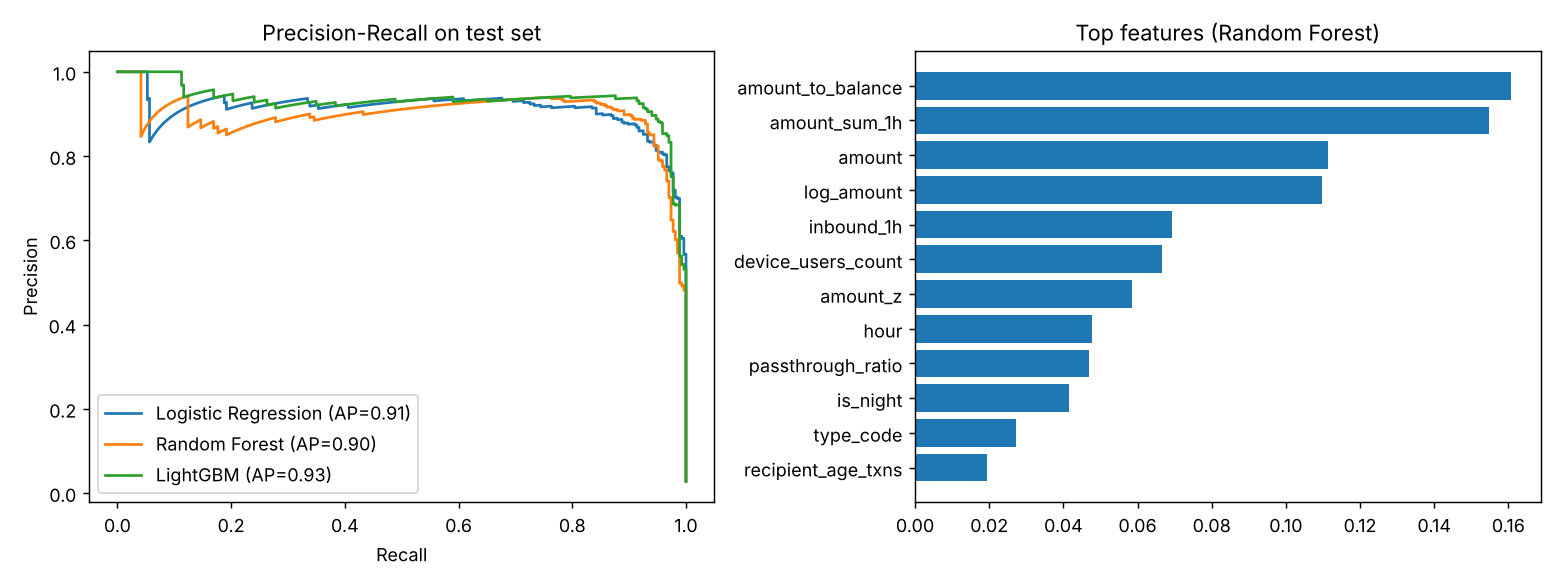
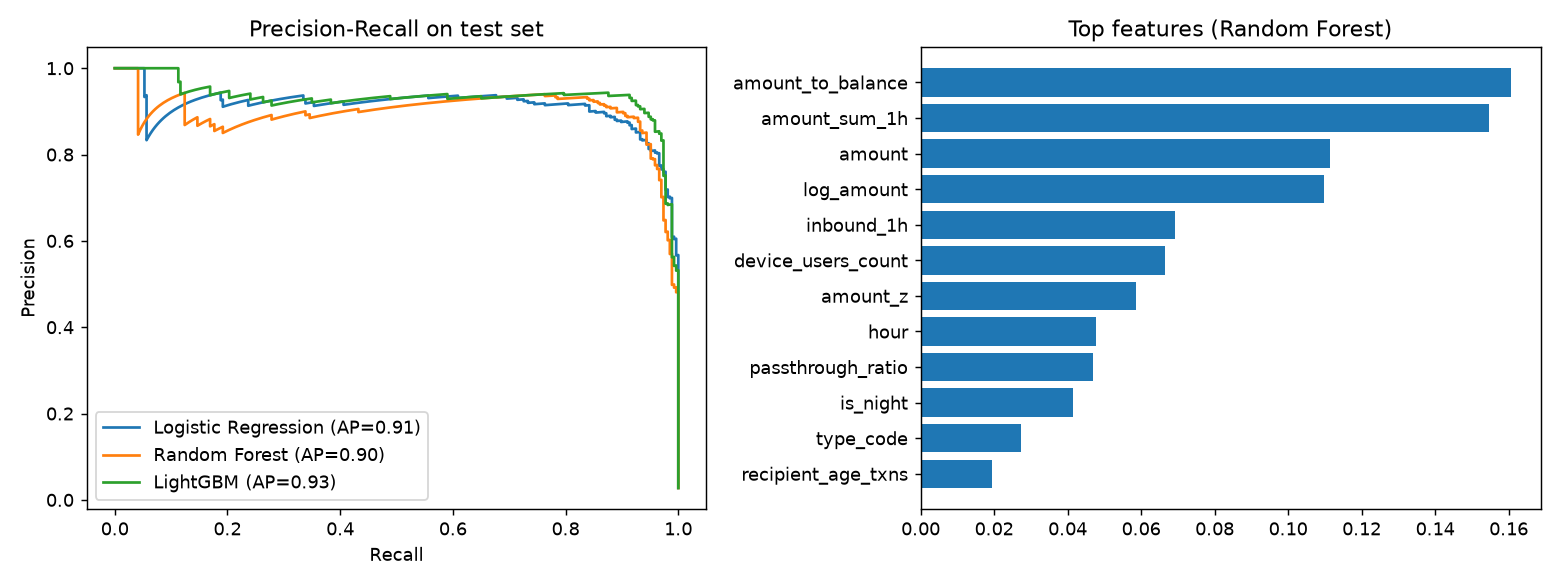
feat: analyst feedback loop for thresholds and labels; docs and reports

diff --git a/ml/feedback.py b/ml/feedback.py
@@ -1,0 +1,154 @@
+"""Analyst feedback loop: confirmed / dismissed cases -> new thresholds and/or new training labels.
+
+The backend exports a CSV (one row per analyst decision):
+
+    txn_id,decision[,analyst,decided_at]
+    TXN-0027580,confirmed
+    TXN-0024183,dismissed
+
+    confirmed = analyst says it IS fraud  (label 1)      dismissed = false alarm  (label 0)
+
+Two ways the feedback is used:
+  1. THRESHOLDS (instant, no retraining): re-tune the otp / hold / block cut-offs with the same cost
+     model as ml/decision.py, but analyst-reviewed cases count `--weight` times more than the
+     historical validation rows. Safety rails: needs >= --min-cases decisions, and each threshold may
+     move at most --max-shift away from its current value per update.
+  2. LABELS (slower, better model): write data/feedback_labels.csv; the next `python -m ml.train`
+     overrides the TRAINING labels of those transactions (test labels are never touched). This is
+     also how unreported fraud, which the historical labels missed, gets corrected.
+
+Usage:
+    python -m ml.feedback feedback.csv                 # dry run: show suggested thresholds
+    python -m ml.feedback feedback.csv --apply         # save thresholds into models/risk_engine.joblib + rebuild cache
+    python -m ml.feedback feedback.csv --labels        # also write data/feedback_labels.csv for retraining
+    python -m ml.feedback --simulate 300               # demo: fake analysts review random flagged test cases
+    python -m ml.feedback --simulate 120 --drift --apply   # demo: analysts dismiss borderline alerts -> thresholds rise
+"""
+import argparse
+import sys
+from pathlib import Path
+
+import joblib
+import numpy as np
+import pandas as pd
+
+ROOT = Path(__file__).resolve().parents[1]
+sys.path.insert(0, str(ROOT))
+from ml.decision import tune_thresholds, total_cost  # noqa: E402
+
+LABEL_FILE = ROOT / "data" / "feedback_labels.csv"
+CONFIRM = {"confirmed", "confirm", "confirmed_fraud", "fraud", "true_positive", "1"}
+DISMISS = {"dismissed", "dismiss", "false_positive", "legit", "not_fraud", "0"}
+
+
+def load_feedback(path) -> pd.DataFrame:
+    fb = pd.read_csv(path)
+    d = fb["decision"].astype(str).str.strip().str.lower()
+    unknown = ~d.isin(CONFIRM | DISMISS)
+    if unknown.any():
+        print(f"warning: ignoring {int(unknown.sum())} rows with unrecognised decision values")
+    fb = fb[~unknown].copy()
+    fb["is_fraud"] = d[~unknown].isin(CONFIRM).astype(int)
+    return fb.drop_duplicates("txn_id", keep="last")[["txn_id", "is_fraud"]].reset_index(drop=True)   # latest decision wins
+
+
+def reference_rows(cache: pd.DataFrame) -> pd.DataFrame:
+    """Historical labelled rows the model did NOT train on (same slice train.py uses for tuning)."""
+    tr = cache[cache.split == "train"]
+    return tr[tr.ts >= tr.ts.quantile(0.8)]
+
+
+def adapt_thresholds(cache, fb, base_th, weight=5.0, min_cases=30, max_shift=0.10):
+    ref = reference_rows(cache)
+    ref = ref[~ref.txn_id.isin(fb.txn_id)]                      # analyst label replaces the old one
+    rev = cache.merge(fb, on="txn_id", suffixes=("_old", ""))
+    info = dict(n_feedback=len(rev), n_confirmed=int(rev.is_fraud.sum()), n_dismissed=int((rev.is_fraud == 0).sum()))
+    if len(rev) < min_cases:
+        return list(base_th), dict(info, changed=False, reason=f"only {len(rev)} reviewed cases (< {min_cases}); thresholds kept")
+
+    score = np.r_[ref.risk_score.values, rev.risk_score.values]
+    amount = np.r_[ref.amount.values, rev.amount.values]
+    y = np.r_[ref.is_fraud.values, rev.is_fraud.values]
+    w = np.r_[np.ones(len(ref)), np.full(len(rev), weight)]
+
+    new = np.array(tune_thresholds(score, amount, y, w))
+    base = np.array(base_th)
+    new = np.clip(new, base - max_shift, base + max_shift).clip(0.01, 0.99)
+    new = np.maximum.accumulate(new)                            # keep otp <= hold <= block
+    cost_before, cost_after = (total_cost(score, amount, y, t, w) for t in (base, new))
+    return [round(float(t), 2) for t in new], dict(info, changed=bool((new != base).any()),
+                                                  weighted_cost_before=round(float(cost_before)),
+                                                  weighted_cost_after=round(float(cost_after)))
+
+
+def write_training_labels(fb, path=LABEL_FILE):
+    old = pd.read_csv(path) if Path(path).exists() else pd.DataFrame(columns=["txn_id", "is_fraud"])
+    out = pd.concat([old, fb]).drop_duplicates("txn_id", keep="last")
+    out.to_csv(path, index=False)
+    return len(out)
+
+
+def simulate(cache, n, seed=0, drift=False):
+    """Demo only: pretend analysts review n random flagged TEST cases and are always right
+    (truth = injected scenario, so this also fixes the ~6% unreported-fraud label noise).
+    drift=True: analysts keep dismissing borderline alerts (risk < 0.5), e.g. a legit shopping wave."""
+    pool = cache[(cache.split == "test") & (cache.action != "allow")]
+    if drift:
+        pool = pool[pool.risk_score < 0.5]
+    pick = pool.sample(min(n, len(pool)), random_state=seed)
+    decision = np.where(pick.scenario.values != "normal", "confirmed", "dismissed")
+    if drift:
+        decision = np.full(len(pick), "dismissed")
+    return pd.DataFrame(dict(txn_id=pick.txn_id.values, decision=decision))
+
+
+def main():
+    ap = argparse.ArgumentParser(description=__doc__, formatter_class=argparse.RawDescriptionHelpFormatter)
+    ap.add_argument("feedback_csv", nargs="?")
+    ap.add_argument("--simulate", type=int, metavar="N", help="demo: generate N fake analyst decisions")
+    ap.add_argument("--drift", action="store_true", help="with --simulate: analysts dismiss borderline alerts (shows thresholds adapting)")
+    ap.add_argument("--apply", action="store_true", help="save new thresholds into the model artifact and rebuild the cache")
+    ap.add_argument("--labels", action="store_true", help="also write data/feedback_labels.csv for the next retrain")
+    ap.add_argument("--weight", type=float, default=5.0)
+    ap.add_argument("--min-cases", type=int, default=30)
+    ap.add_argument("--max-shift", type=float, default=0.10)
+    a = ap.parse_args()
+
+    from ml.cache import build_cache, load_cache
+    cache = load_cache()
+    if a.simulate:
+        sim = simulate(cache, a.simulate, drift=a.drift)
+        path = ROOT / "data" / "cache" / "feedback_simulated.csv"      # git-ignored
+        sim.to_csv(path, index=False)
+        print(f"simulated {len(sim)} analyst decisions -> {path.relative_to(ROOT)}")
+        a.feedback_csv = path
+    if not a.feedback_csv:
+        ap.error("give a feedback CSV or use --simulate N")
+
+    fb = load_feedback(a.feedback_csv)
+    art_path = ROOT / "models" / "risk_engine.joblib"
+    art = joblib.load(art_path)
+    new_th, info = adapt_thresholds(cache, fb, art["thresholds"], a.weight, a.min_cases, a.max_shift)
+
+    print(f"feedback: {info['n_feedback']} cases ({info['n_confirmed']} confirmed, {info['n_dismissed']} dismissed)")
+    print(f"thresholds (otp, hold, block): {art['thresholds']}  ->  {new_th}")
+    if "weighted_cost_before" in info:
+        print(f"weighted cost: BDT {info['weighted_cost_before']:,} -> {info['weighted_cost_after']:,}")
+    else:
+        print(info["reason"])
+
+    if a.labels:
+        print(f"wrote {write_training_labels(fb)} analyst labels to {LABEL_FILE.relative_to(ROOT)} (used by the next `python -m ml.train`)")
+    if a.apply and info["changed"]:
+        art["thresholds"] = new_th
+        joblib.dump(art, art_path)
+        build_cache()
+        print("applied: model artifact updated and scored cache rebuilt")
+    elif a.apply:
+        print("nothing to apply")
+    elif info["changed"]:
+        print("dry run - add --apply to save these thresholds")
+
+
+if __name__ == "__main__":
+    main()

diff --git a/ml/README.md b/ml/README.md
@@ -1,26 +1,93 @@
-# UpayShield ML module (prototype)
+# UpayShield ML module (v1.1)
 
-Run from the repo root:
+Everything the backend needs from the ML side: a trained risk engine, per-transaction explanations,
+a pre-scored cache for instant startup, and an analyst-feedback loop.
 
-    pip install -r requirements.txt
-    python scripts/generate_data.py      # synthetic BD mobile-money data + injected fraud
-    python -m ml.train                   # features -> LightGBM + Isolation Forest -> thresholds -> metrics
+## Quick start (from the repo root)
 
-Outputs: `models/risk_engine.joblib`, `reports/metrics.json`, `reports/shap_importance.json`, `reports/sample_cases.json`.
+```bash
+pip install -r requirements.txt          # needs: pandas numpy scikit-learn lightgbm shap pyarrow joblib matplotlib
+python -m ml.train                       # trains, writes models/ + reports/ AND builds data/cache/scored_cache.parquet
+python -m ml.score                       # demo: the 3 riskiest test transactions as full case JSON
+```
+
+## Files
 
 | File | Role |
 |---|---|
-| `scripts/generate_data.py` | Synthetic data: ATO, scam victims, mule rings, structuring, rogue agents + label noise |
-| `ml/features.py` | Point-in-time features (no leakage): behaviour deviation, ATO, network, agent |
-| `ml/anomaly.py` | Isolation Forest behavioural anomaly score |
-| `ml/rules.py` | Rule trace + scam/ATO/mule tags |
-| `ml/explain.py` | SHAP top reasons in plain language |
-| `ml/decision.py` | Cost-tuned allow / OTP / hold / block thresholds |
-| `ml/evaluate.py` | AUC, PR-AUC, precision/recall@K, money saved, friction, per-scenario recall |
-| `ml/score.py` | `RiskEngine.score_frame()` returns what-happened / why-risky / what-next JSON for the API |
+| `features.py` | 23 point-in-time features (no future leakage) |
+| `anomaly.py` | Isolation Forest behavioural anomaly score (0..1 percentile) |
+| `train.py` | Compares Logistic Regression / Random Forest / LightGBM / Isolation Forest, tunes action thresholds, saves the artifact, builds the cache |
+| `decision.py` | Risk score to `allow / otp_step_up / hold / block`, thresholds tuned on cost |
+| `explain.py` | Local factor breakdown: top factors that raised and lowered the risk of any transaction |
+| `score.py` | `RiskEngine` for the backend: what-happened / why-risky / what-next JSON |
+| `cache.py` | Builds and loads the pre-scored dataset |
+| `feedback.py` | Turns analyst Confirm / Dismiss decisions into new thresholds and training labels |
 
-## Honest caveats
-- Data is synthetic, so metrics are optimistic (ROC-AUC ~0.999). Do not present them as real-world performance.
-- `user_txn_count` ranks high in SHAP because mule accounts are brand new in the generator (a data artifact).
-- Isolation Forest does not beat LightGBM alone on this data; it is kept as an unsupervised safety net for unseen fraud types.
-- Action effectiveness and friction costs in `decision.py` are assumptions to tune with the team.
+## Model artifact: `models/risk_engine.joblib`
+
+`ml/score.py` loads this by default (`ml.score.MODEL_PATH`). It is a dict with `model`, `anomaly`,
+`features`, `thresholds` (`[otp, hold, block]`), plus `name` and `version`. It is git-ignored; every
+teammate rebuilds it with `python -m ml.train`.
+
+## Explanations (`ml/explain.py`)
+
+```python
+from ml.score import RiskEngine
+engine = RiskEngine()
+cases = engine.score_frame(features_df)            # SHAP only for flagged rows by default
+cases[0]["why_risky"]["feature_contributions"]
+# {"base_value": 0.5, "risk": 0.996, "unit": "probability",
+#  "top_positive": [{"feature": "amount_z", "value": 7.12, "contribution": 0.1044,
+#                    "direction": "increases_risk", "text": "Amount is 7.1 std devs above ..."}, ...],
+#  "top_negative": [{"feature": "is_new_recipient", "value": 0.0, "contribution": -0.08,
+#                    "direction": "reduces_risk", "text": "Known recipient (paid before)"}, ...]}
+```
+
+- `base_value + sum(all contributions) == risk` exactly (verified), so the breakdown is auditable.
+- `explain="all"` explains every row, `"none"` skips it (fastest).
+- Duplicate-sounding factors (for example `amount` and `log_amount`) are merged into one line.
+- **Caveat:** the Random Forest is trained with class weights, so its scores are *ranking scores*, not
+  calibrated fraud probabilities, and `base_value` is about 0.5 rather than the real fraud rate. Probability
+  calibration is planned for v2.
+
+## Scored cache (`ml/cache.py`)
+
+```python
+from ml.cache import load_cache
+df = load_cache()      # ~1.7 s; builds once (about 18 s) if the file is missing
+```
+
+`data/cache/scored_cache.parquet` holds every transaction with its raw columns, the 23 features, `split`,
+`risk_score`, `anomaly_score`, `action`, `tags`, and `reasons` (JSON string with the top positive and negative
+factors, filled for flagged rows only). Rebuild it after any retrain or threshold change
+(`python -m ml.cache`). For a different dataset: `python -m ml.cache --csv a.csv b.csv` (files in time order).
+It is git-ignored.
+
+## Analyst feedback loop (`ml/feedback.py`)
+
+The backend exports one row per analyst decision:
+
+```csv
+txn_id,decision
+TXN-0027580,confirmed
+TXN-0024183,dismissed
+```
+
+```bash
+python -m ml.feedback feedback.csv                 # dry run: shows the suggested thresholds
+python -m ml.feedback feedback.csv --apply         # saves thresholds into the artifact + rebuilds the cache
+python -m ml.feedback feedback.csv --labels        # also writes data/feedback_labels.csv for the next retrain
+python -m ml.feedback --simulate 120 --drift       # demo without a backend (analysts dismiss borderline alerts)
+```
+
+1. **Thresholds (instant):** re-tunes the cut-offs with the same cost model as `decision.py`, with reviewed
+   cases counting 5x more than historical rows. Safety rails: at least 30 decisions are required, and each
+   threshold moves at most 0.10 per update.
+2. **Labels (better model):** `data/feedback_labels.csv` overrides *training* labels on the next
+   `python -m ml.train` (test labels are never changed). This also fixes unreported fraud the original labels missed.
+
+## Known limitations
+- Synthetic data: use the numbers to compare models, not as real-world performance.
+- Decision-engine stop-rates and friction costs are assumptions.
+- The simulated analyst in `--simulate` is always right; real analysts are not, which is why the safety rails exist.

diff --git a/reports/model_comparison_v1.md b/reports/model_comparison_v1.md
@@ -3,4 +3,4 @@
 | Logistic Regression | 0.9982 | 0.9119 | 0.8542 | 0.9248 |
 | Random Forest | 0.9979 | 0.8975 | 0.8611 | 0.9323 |
 | LightGBM | 0.9985 | 0.9314 | 0.8819 | 0.9549 |
-| Isolation Forest (unsupervised) | 0.9777 | 0.6655 | 0.6597 | 0.7143 |
+| Isolation Forest (unsupervised) | 0.9777 | 0.665 | 0.6597 | 0.7143 |
